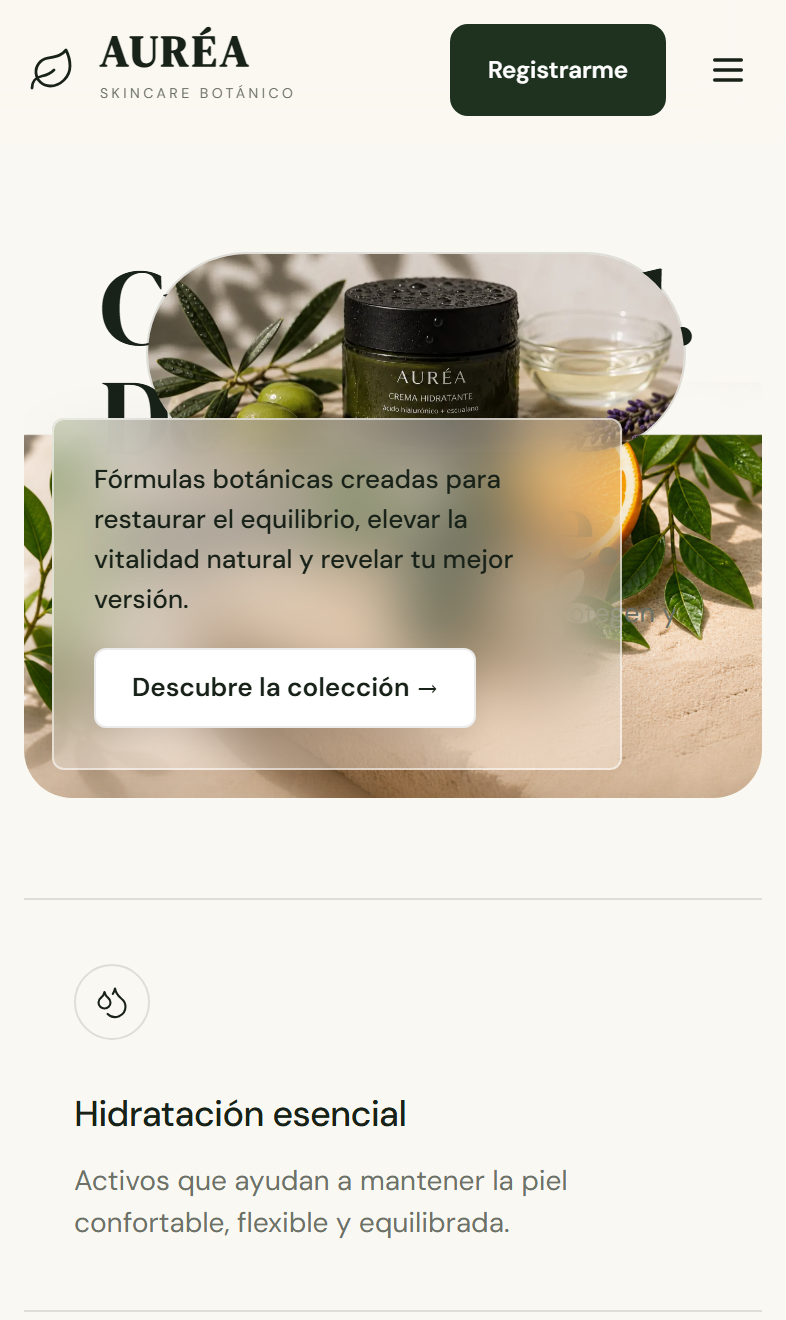
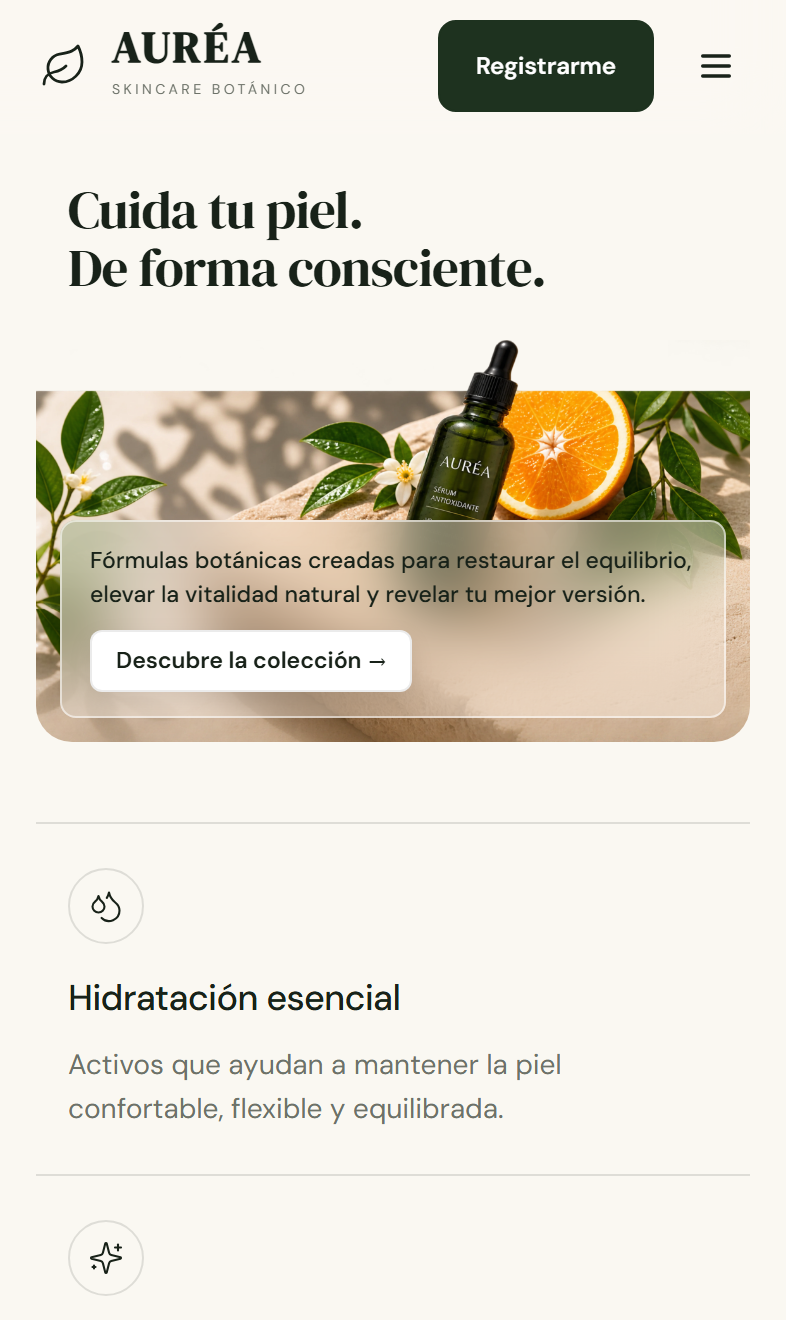
2026-09-02_18:29_A22@@@_optimizacion-responsive-movil-aurea-landing

diff --git a/src/pages/11-Proyectos/2-Sistemas-digitales/3-Webs-y-landings/7-skin-care/aurea-skincare-web/aurea-landing.css b/src/pages/11-Proyectos/2-Sistemas-digitales/3-Webs-y-landings/7-skin-care/aurea-skincare-web/aurea-landing.css
@@ -244,5 +244,88 @@
   }
 }
 
-@media(max-width:980px){.aurea-landing .container{width:min(calc(100% - 32px),var(--max))}.aurea-landing .nav-links{display:none;position:absolute;top:78px;left:16px;right:16px;padding:16px;background:rgba(247,245,239,.98);border:1px solid var(--line);border-radius:14px;flex-direction:column;align-items:flex-start;box-shadow:0 20px 60px rgba(0,0,0,.08)}.aurea-landing .nav-links.open{display:flex}.aurea-landing .mobile-toggle{display:block}.aurea-landing .nav-actions{margin-left:auto}.aurea-landing .hero-top{grid-template-columns:1fr;gap:20px}.aurea-landing .hero-copy,.aurea-landing .hero-pill{justify-self:start}.aurea-landing .hero-pill{width:260px}.aurea-landing .benefit-grid{grid-template-columns:1fr 1fr}.aurea-landing .benefit:nth-child(2){border-right:0}.aurea-landing .benefit:nth-child(-n+2){border-bottom:1px solid var(--line)}.aurea-landing .product-feature{grid-template-columns:1fr}.aurea-landing .product-info{padding-right:0}.aurea-landing .commitment-grid{grid-template-columns:1fr}.aurea-landing .commitment-card,.aurea-landing .commitment-card:nth-child(2n){border-right:0}.aurea-landing .commitment-card:nth-last-child(-n+2){border-bottom:1px solid var(--line)}.aurea-landing .commitment-card:last-child{border-bottom:0}.aurea-landing .why-grid{grid-template-columns:1fr}.aurea-landing .why-side{grid-template-columns:1fr 1fr;gap:30px}.aurea-landing .why-item{max-width:none}.aurea-landing .why-center{order:-1}.aurea-landing .collection-grid{grid-template-columns:1fr 1fr}.aurea-landing .footer-top{grid-template-columns:1fr 1fr}}
-@media(max-width:640px){.aurea-landing .container{width:min(calc(100% - 24px),var(--max))}.aurea-landing .section{padding:64px 0}.aurea-landing .section.section-benefits{padding:36px 0}.aurea-landing .nav-inner{min-height:70px}.aurea-landing .nav-actions .signin{display:none}.aurea-landing .hero{padding-top:35px}.aurea-landing .hero h1{font-size:54px}.aurea-landing .hero-visual,.aurea-landing .hero-visual>img{min-height:560px}.aurea-landing .hero-overlay{left:14px;bottom:14px;top:auto;transform:none;padding:20px}.aurea-landing .hero-badge{right:14px;top:14px;bottom:auto}.aurea-landing .split{grid-template-columns:1fr}.aurea-landing .benefit-grid{grid-template-columns:1fr}.aurea-landing .benefit,.aurea-landing .benefit:nth-child(2){border-right:0;border-bottom:1px solid var(--line)}.aurea-landing .benefit:last-child{border-bottom:0}.aurea-landing .product-intro,.aurea-landing .collection-head{align-items:start;flex-direction:column}.aurea-landing .product-gallery{grid-template-columns:1fr 1fr}.aurea-landing .product-gallery .large{grid-row:span 1;grid-column:span 2}.aurea-landing .product-gallery .large img{min-height:360px}.aurea-landing .product-gallery img{min-height:175px}.aurea-landing .editorial-image img{aspect-ratio:1.2}.aurea-landing .editorial-features{grid-template-columns:1fr 1fr}.aurea-landing .editorial-feature:nth-child(2){border-right:0}.aurea-landing .editorial-feature:nth-child(-n+2){border-bottom:1px solid var(--line)}.aurea-landing .commitment-card{grid-template-columns:1fr}.aurea-landing .commitment-card .photo{min-height:220px}.aurea-landing .why-side{grid-template-columns:1fr;gap:25px}.aurea-landing .collection-grid{grid-template-columns:1fr}.aurea-landing .news-benefits{grid-template-columns:1fr 1fr}.aurea-landing .news-benefit:nth-child(2){border-right:0}.aurea-landing .news-benefit:nth-child(-n+2){border-bottom:1px solid var(--line)}.aurea-landing .news-form{flex-direction:column;padding:7px}.aurea-landing .news-form input{min-height:44px}.aurea-landing .footer-top{grid-template-columns:1fr 1fr;gap:30px 18px}.aurea-landing .footer-bottom{flex-direction:column;align-items:flex-start}.aurea-landing .footer-bottom .big-brand{font-size:54px}.aurea-cart-toast{right:16px;left:16px;bottom:16px;justify-content:center}}
+@media(max-width:980px){
+  .aurea-landing .container{width:min(calc(100% - 36px),var(--max))}
+  .aurea-landing .nav-links{display:none;position:absolute;top:78px;left:16px;right:16px;padding:16px;background:rgba(247,245,239,.98);border:1px solid var(--line);border-radius:14px;flex-direction:column;align-items:flex-start;box-shadow:0 20px 60px rgba(0,0,0,.08)}
+  .aurea-landing .nav-links.open{display:flex}
+  .aurea-landing .mobile-toggle{display:block}
+  .aurea-landing .nav-actions{margin-left:auto}
+  .aurea-landing .hero-top{grid-template-columns:1fr;gap:20px}
+  .aurea-landing .hero-copy,.aurea-landing .hero-pill{justify-self:start}
+  .aurea-landing .hero-pill{width:240px;height:90px}
+  .aurea-landing .benefit-grid{grid-template-columns:1fr 1fr}
+  .aurea-landing .benefit:nth-child(2){border-right:0}
+  .aurea-landing .benefit:nth-child(-n+2){border-bottom:1px solid var(--line)}
+  .aurea-landing .product-feature{grid-template-columns:1fr}
+  .aurea-landing .product-info{padding-right:0}
+  .aurea-landing .commitment-grid{grid-template-columns:1fr}
+  .aurea-landing .commitment-card,.aurea-landing .commitment-card:nth-child(2n){border-right:0}
+  .aurea-landing .commitment-card:nth-last-child(-n+2){border-bottom:1px solid var(--line)}
+  .aurea-landing .commitment-card:last-child{border-bottom:0}
+  .aurea-landing .why-grid{grid-template-columns:1fr}
+  .aurea-landing .why-side{grid-template-columns:1fr 1fr;gap:30px}
+  .aurea-landing .why-item{max-width:none}
+  .aurea-landing .why-center{order:-1}
+  .aurea-landing .collection-grid{grid-template-columns:1fr 1fr}
+  .aurea-landing .footer-top{grid-template-columns:1fr 1fr}
+}
+
+@media(max-width:640px){
+  .aurea-landing .container{width:min(calc(100% - 36px),var(--max))}
+  .aurea-landing .section{padding:54px 0}
+  .aurea-landing .section.section-benefits{padding:24px 0}
+  .aurea-landing .nav-inner{min-height:66px}
+  .aurea-landing .nav-actions .signin{display:none}
+  
+  /* Hero Móvil Optimizado */
+  .aurea-landing .hero{padding:8px 0 16px}
+  .aurea-landing .hero-stage{border-radius:18px;max-height:none}
+  .aurea-landing .hero-stage-bg{margin-top:95px;width:100%;height:auto}
+  .aurea-landing .hero-stage-content{top:16px;left:16px;right:16px;max-width:100%}
+  .aurea-landing .hero h1{font-size:clamp(24px,6.8vw,32px);line-height:1.08;letter-spacing:-.02em}
+  .aurea-landing .hero-subtext{display:none}
+  .aurea-landing .hero-stage .hero-pill{display:none}
+  .aurea-landing .hero-overlay{left:12px;right:12px;bottom:12px;width:auto;padding:12px 14px;gap:8px;border-radius:8px}
+  .aurea-landing .hero-overlay .overlay-desc{font-size:11.5px;line-height:1.45}
+  .aurea-landing .overlay-cta{font-size:11.5px;padding:6px 12px}
+  .aurea-landing .hero-badge{display:none}
+
+  /* Secciones Adaptadas sin desbordes laterales */
+  .aurea-landing .split{grid-template-columns:1fr;gap:32px}
+  .aurea-landing .benefit-grid{grid-template-columns:1fr}
+  .aurea-landing .benefit{padding:22px 16px;min-height:auto}
+  .aurea-landing .benefit,.aurea-landing .benefit:nth-child(2){border-right:0;border-bottom:1px solid var(--line)}
+  .aurea-landing .benefit:last-child{border-bottom:0}
+  .aurea-landing .benefit .icon-wrap{margin-bottom:14px}
+  .aurea-landing .product-intro,.aurea-landing .collection-head{align-items:start;flex-direction:column;gap:12px;margin-bottom:24px}
+  .aurea-landing .product-gallery{grid-template-columns:1fr 1fr;gap:8px}
+  .aurea-landing .product-gallery .large{grid-row:span 1;grid-column:span 2}
+  .aurea-landing .product-gallery .large img{height:260px}
+  .aurea-landing .product-gallery img{height:150px}
+  
+  .aurea-landing .editorial-image img{aspect-ratio:1.35}
+  .aurea-landing .editorial-features{grid-template-columns:1fr;border-radius:0 0 16px 16px}
+  .aurea-landing .editorial-feature{padding:18px 14px;border-right:0;border-bottom:1px solid var(--line)}
+  .aurea-landing .editorial-feature:last-child{border-bottom:0}
+  
+  .aurea-landing .commitment-grid{border-radius:16px}
+  .aurea-landing .commitment-card{grid-template-columns:1fr;min-height:auto}
+  .aurea-landing .commitment-card .photo{height:200px}
+  .aurea-landing .commitment-copy{padding:20px 16px}
+  
+  .aurea-landing .why-side{grid-template-columns:1fr;gap:22px}
+  .aurea-landing .why-center img{max-height:260px;margin:20px auto 0}
+  
+  .aurea-landing .collection-grid{grid-template-columns:1fr;gap:28px}
+  
+  .aurea-landing .news-benefits{grid-template-columns:1fr;margin-top:32px}
+  .aurea-landing .news-benefit{padding:16px 12px;border-right:0;border-bottom:1px solid var(--line)}
+  .aurea-landing .news-benefit:last-child{border-bottom:0}
+  .aurea-landing .news-form{flex-direction:column;padding:6px;gap:6px}
+  .aurea-landing .news-form input{min-height:42px;padding:0 10px}
+  
+  .aurea-landing .footer-top{grid-template-columns:1fr;gap:28px;padding:36px 0}
+  .aurea-landing .footer-bottom{flex-direction:column;align-items:flex-start;gap:12px;padding:20px 0 28px}
+  .aurea-landing .footer-bottom .big-brand{font-size:42px}
+  .aurea-cart-toast{right:16px;left:16px;bottom:16px;justify-content:center}
+}
